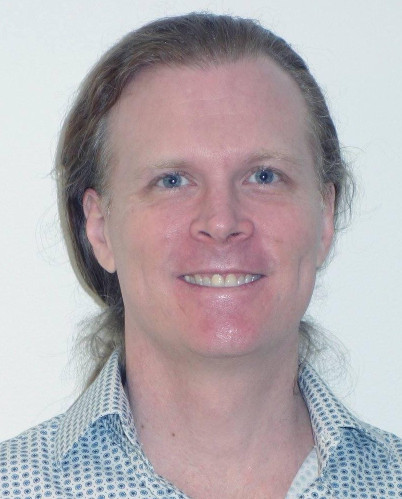
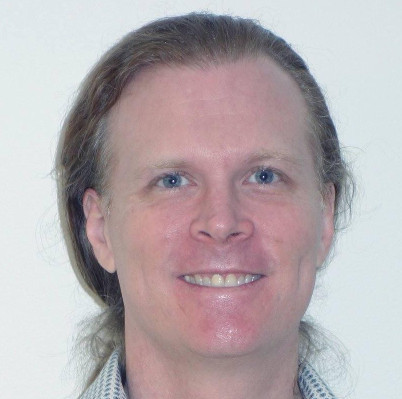
Fixed Patrick's image and URL to scroll instead of run off the screen.

diff --git a/_source/_posts/2018-07-31-use-aws-cloudformation-to-automate-static-site-deployment-with-s3.md b/_source/_posts/2018-07-31-use-aws-cloudformation-to-automate-static-site-deployment-with-s3.md
@@ -57,7 +57,11 @@ The easiest option is to put your Template and required code in an S3 bucket and
 
 Before you read the instructions on how to do this, you can try running the CloudFormation Stack if you have already activated your Amazon AWS Account. Just click the link below:
 
-Launch this CloudFormation Template: `https://console.aws.amazon.com/cloudformation/home?region=us-east-1#/stacks/new?stackName=HTMLtoS3&templateURL=https://s3.amazonaws.com/htmlformation/s3template.yml`
+Launch this CloudFormation Template:
+
+```
+https://console.aws.amazon.com/cloudformation/home?region=us-east-1#/stacks/new?stackName=HTMLtoS3&templateURL=https://s3.amazonaws.com/htmlformation/s3template.yml
+```
 
 [Click here to do this.](https://console.aws.amazon.com/cloudformation/home?region=us-east-1#/stacks/new?stackName=ttmltoS3&templateURL=https://s3.amazonaws.com/htmlformation/s3template.yml)
 
